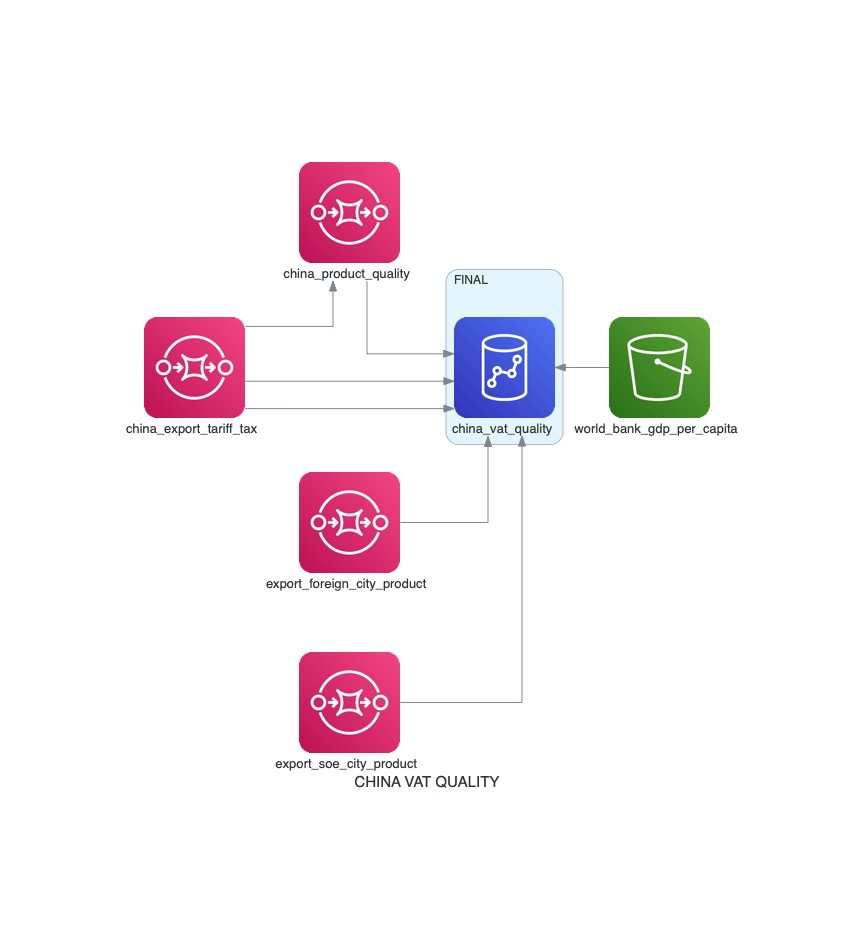
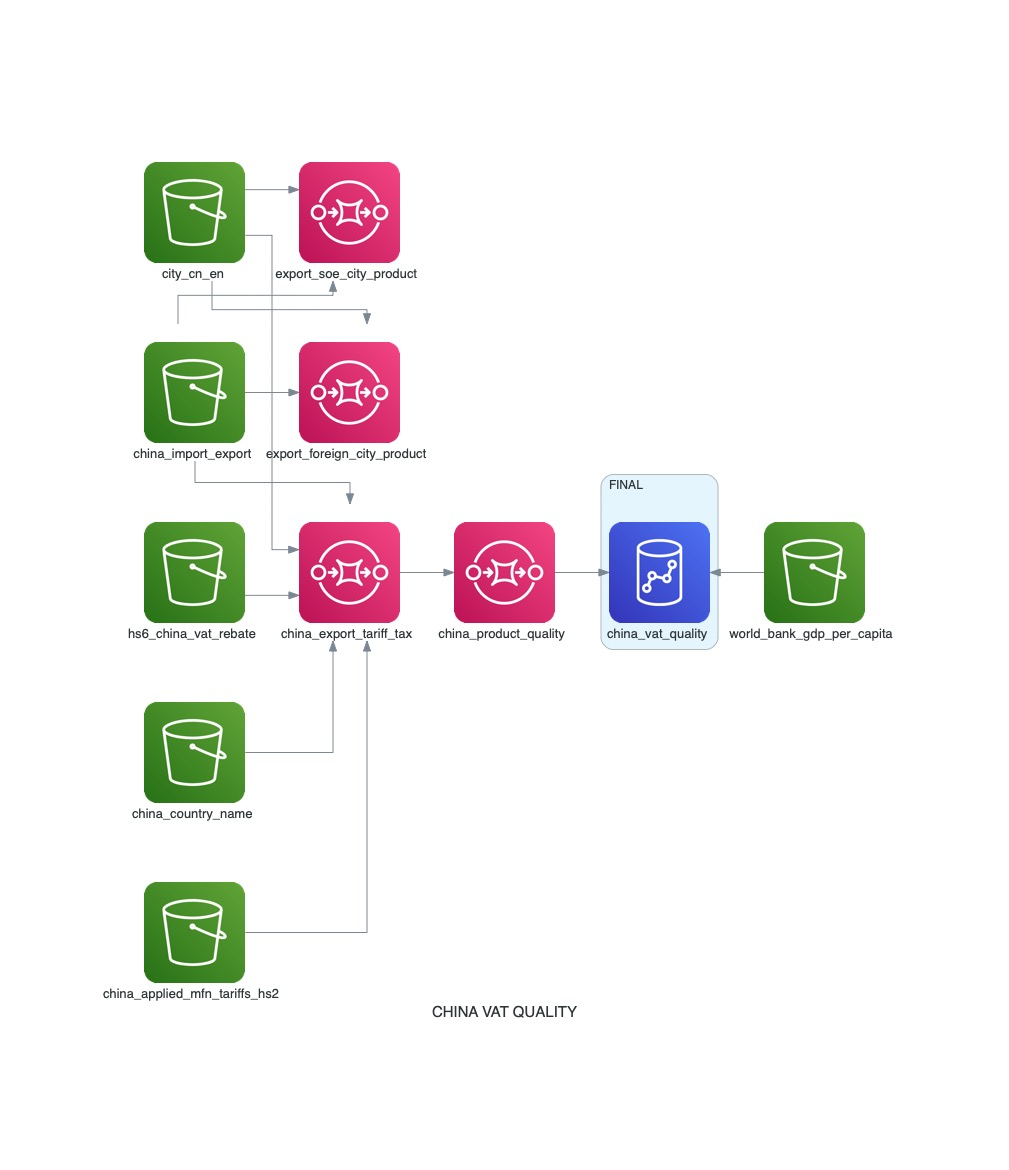
correct etl with new image
182_VAT_rebate_quality

diff --git a/utils/IMAGES/script_diagram_china_vat_quality.py b/utils/IMAGES/script_diagram_china_vat_quality.py
@@ -8,6 +8,11 @@ from diagrams.aws.storage import S3
 with Diagram("CHINA VAT QUALITY", show=False, filename="/Users/thomas/Google Drive/PROJECT/GITHUB/REPOSITORIES/VAT_rebate_quality_china/utils/IMAGES/china_vat_quality", outformat="jpg"):
 
      temp_1 = S3('world_bank_gdp_per_capita')
+     input_china_import_export = S3("china_import_export")
+     input_city_cn_en = S3("city_cn_en")
+     input_china_country_name = S3("china_country_name")
+     input_china_applied_mfn_tariffs_hs2 = S3("china_applied_mfn_tariffs_hs2")
+     input_hs6_china_vat_rebate = S3("hs6_china_vat_rebate")
      temp_2 = SQS('china_export_tariff_tax')
      temp_3 = SQS('china_product_quality')
      temp_5 = SQS('export_foreign_city_product')
@@ -19,8 +24,13 @@ with Diagram("CHINA VAT QUALITY", show=False, filename="/Users/thomas/Google Dri
 
 
      temp_final_0 << temp_1
-     temp_2 >> temp_final_0
+     input_china_import_export >> temp_2
+     input_city_cn_en >> temp_2
+     input_china_country_name >> temp_2
+     input_china_applied_mfn_tariffs_hs2 >> temp_2
+     input_hs6_china_vat_rebate >> temp_2
      temp_2 >>temp_3 >> temp_final_0
-     temp_2 >> temp_final_0
-     temp_5 >> temp_final_0
-     temp_6 >> temp_final_0
+     input_china_import_export >> temp_5
+     input_city_cn_en >> temp_5
+     input_china_import_export >> temp_6
+     input_city_cn_en >> temp_6
